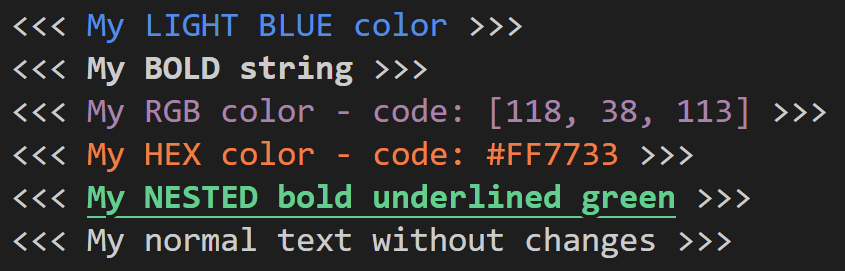
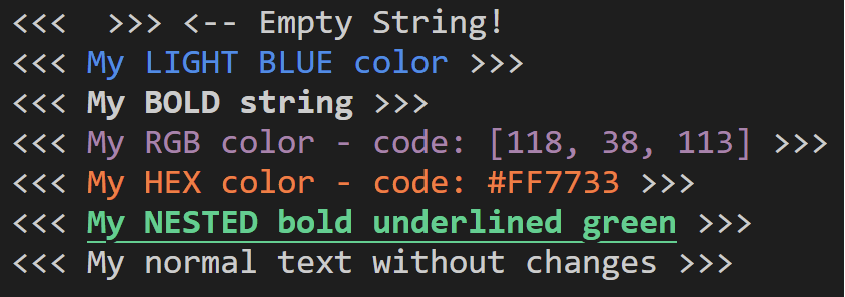
update service, readme, fix issues

diff --git a/index.ts b/index.ts
@@ -1,6 +1,71 @@
-import { BACKGROUND_COLOR_CODES, COLOR_CODES, COLOR_NAMES, Colors } from './types'
+export type Colors =
+  | 'black'
+  | 'red'
+  | 'green'
+  | 'yellow'
+  | 'blue'
+  | 'magenta'
+  | 'cyan'
+  | 'gray'
+  | 'lightRed'
+  | 'lightGreen'
+  | 'lightYellow'
+  | 'lightBlue'
+  | 'lightMagenta'
+  | 'lightCyan'
 
-export * from './types'
+export enum COLOR_NAMES {
+  BLACK = 'black',
+  RED = 'red',
+  GREEN = 'green',
+  YELLOW = 'yellow',
+  BLUE = 'blue',
+  MAGENTA = 'magenta',
+  CYAN = 'cyan',
+  GRAY = 'gray',
+  LIGHT_RED = 'lightRed',
+  LIGHT_GREEN = 'lightGreen',
+  LIGHT_YELLOW = 'lightYellow',
+  LIGHT_BLUE = 'lightBlue',
+  LIGHT_MAGENTA = 'lightMagenta',
+  LIGHT_CYAN = 'lightCyan',
+}
+
+export enum COLOR_CODES {
+  black = '30',
+  red = '31',
+  green = '32',
+  yellow = '33',
+  blue = '34',
+  magenta = '35',
+  cyan = '36',
+  gray = '90',
+  lightRed = '91',
+  lightGreen = '92',
+  lightYellow = '93',
+  lightBlue = '94',
+  lightMagenta = '95',
+  lightCyan = '96',
+}
+
+export enum BACKGROUND_COLOR_CODES {
+  black = '40',
+  red = '41',
+  green = '42',
+  yellow = '43',
+  blue = '44',
+  magenta = '45',
+  cyan = '46',
+  gray = '47',
+  lightBlack = '100',
+  lightRed = '101',
+  lightGreen = '102',
+  lightYellow = '103',
+  lightBlue = '104',
+  lightMagenta = '105',
+  lightCyan = '106',
+  lightGray = '107',
+}
 
 const COLOR_END = '\u001B[39m'
 const STYLE_END = '\x1b[0m'
@@ -41,18 +106,19 @@ class Gach {
   }
 
   // ------------ Color Methods ------------
-  color(color: Colors) {
+  color(color: Colors | COLOR_NAMES) {
     const colorCode = COLOR_CODES[color].valueOf()
-    if (colorCode) {
-      this.#modifiedText = `\u001B[${colorCode}m${this.#modifiedText}${COLOR_END}`
-    }
+    if (!colorCode) return this
+    this.#modifiedText = `\u001B[${colorCode}m${this.#modifiedText}${COLOR_END}`
     return this
   }
 
-  bgColor(bgColor: Colors) {
+  bgColor(bgColor: Colors | COLOR_NAMES) {
     const colorCode = BACKGROUND_COLOR_CODES[bgColor].valueOf()
     if (!colorCode) return this
-    this.#modifiedText = `\u001B[${BACKGROUND_COLOR_CODES[bgColor]}m${this.#modifiedText}${COLOR_END}`
+    this.#modifiedText = `\u001B[${BACKGROUND_COLOR_CODES[bgColor]}m${
+      this.#modifiedText
+    }${COLOR_END}`
     return this
   }
 

diff --git a/test/test.ts b/test/test.ts
@@ -1,11 +1,11 @@
-import gach from '..'
+import gach, { COLOR_NAMES } from '../index'
 
 const log = console.log
 
 log(`<<< ${gach('').color('magenta').bold().text} >>> <-- Empty String!`)
-log(`<<< ${gach('My LIGHT BLUE color').color('lightBlue').text} >>>`)
+log(`<<< ${gach('My LIGHT BLUE color').color(COLOR_NAMES.LIGHT_BLUE).text} >>>`)
 log(`<<< ${gach('My BOLD string').bold().text} >>>`)
 log(`<<< ${gach('My RGB color - code: [118, 38, 113]').rgb(118, 38, 113).text} >>>`)
 log(`<<< ${gach('My HEX color - code: #FF7733').hex('#FF7733').text} >>>`)
 log(`<<< ${gach('My NESTED bold underlined green').underline().bold().color('green').text} >>>`)
-log(`<<< ${gach('My normal text without changes').underline().bold().color('red').reset().text} >>>`)
+log(`<<< ${gach('My normal text without changes').underline().bold().color(COLOR_NAMES.RED).reset().text} >>>`)

diff --git a/README.md b/README.md
@@ -18,16 +18,18 @@ npm i gach
 ## Usage
 You can use this package like this in both Javascript and Typescript:
 ```js
-import gach from 'gach'
+import gach, { COLOR_NAMES } from 'gach'
 
 const log = console.log
 
-log(`<<< ${gach('My LIGHT BLUE color').color('lightBlue').text} >>>`)
+log(`<<< ${gach('').color('magenta').bold().text} >>> <-- Empty String!`)
+log(`<<< ${gach('My LIGHT BLUE color').color(COLOR_NAMES.LIGHT_BLUE).text} >>>`)
 log(`<<< ${gach('My BOLD string').bold().text} >>>`)
 log(`<<< ${gach('My RGB color - code: [118, 38, 113]').rgb(118, 38, 113).text} >>>`)
 log(`<<< ${gach('My HEX color - code: #FF7733').hex('#FF7733').text} >>>`)
 log(`<<< ${gach('My NESTED bold underlined green').underline().bold().color('green').text} >>>`)
-log(`<<< ${gach('My normal text without changes').underline().bold().color('red').reset().text} >>>`)
+log(`<<< ${gach('My normal text without changes').underline().bold().color(COLOR_NAMES.RED).reset().text} >>>`)
+
 ```
 
 The result will be like below:
